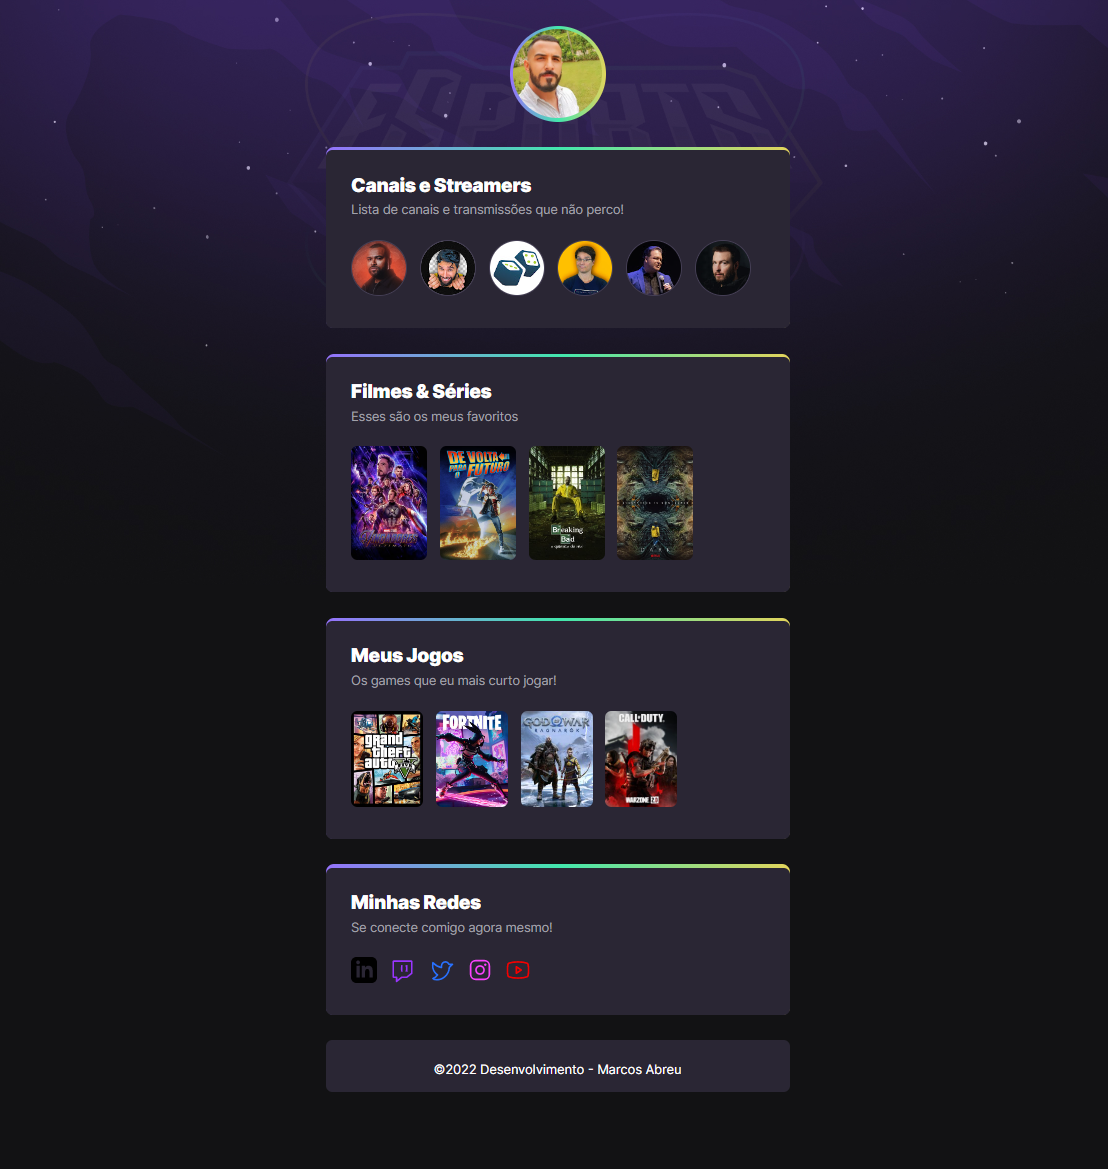
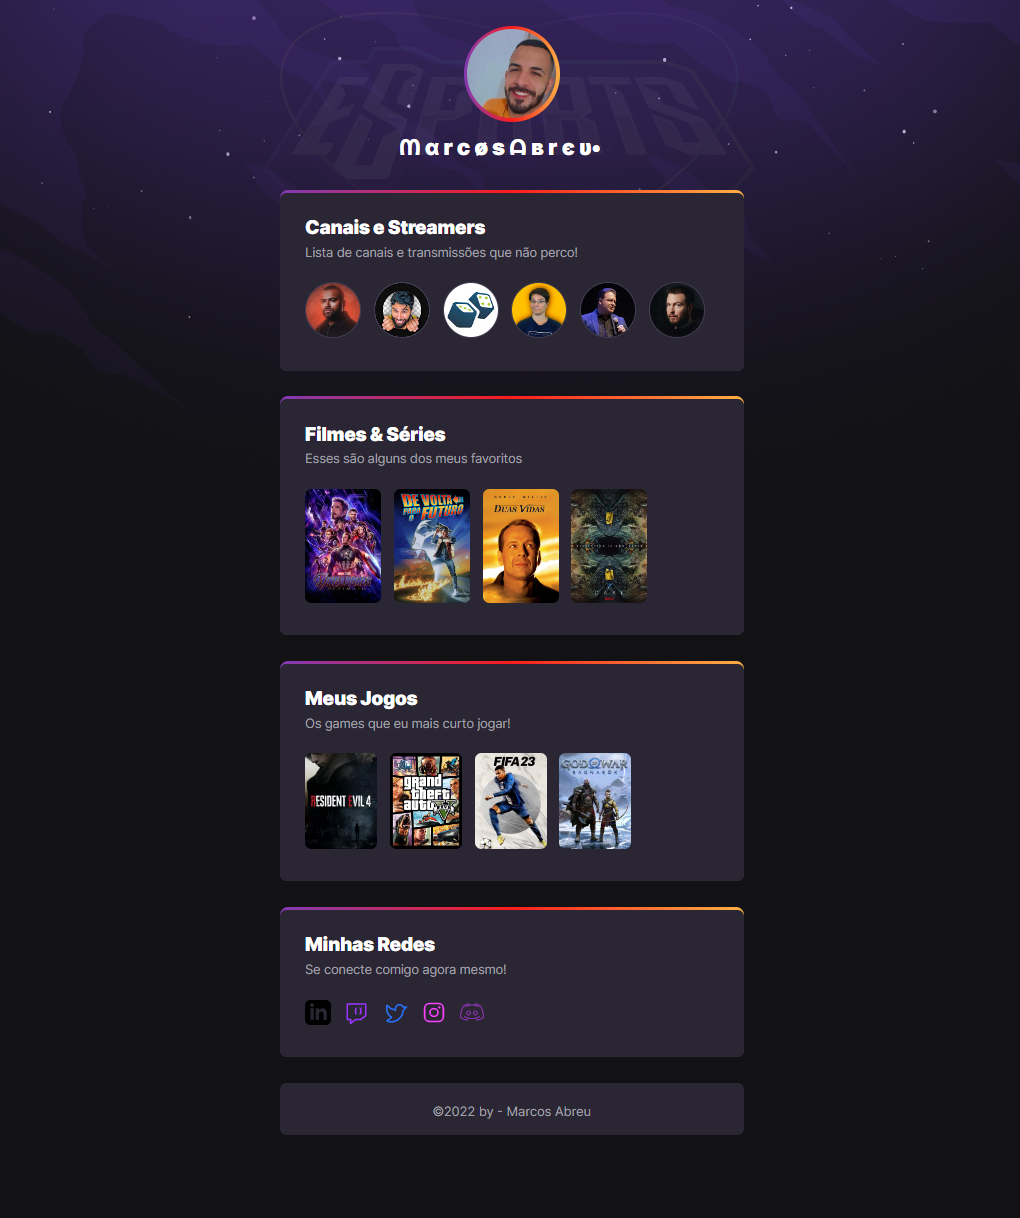
update

Changed region(s): [[0.2735, 0.308, 0.7294, 0.9547], [0.2735, 0.0, 0.7294, 0.2772], [0.3951, 0.8931, 0.6078, 0.9239]]

diff --git a/index.html b/index.html
@@ -8,7 +8,8 @@
         <meta name="viewport" content="width=device-width, initial-scale=1.0">
         <title>NLW Esports</title>
         <link rel="icon" type="image/svg" href="assets/iconmonstr-rocket-20.svg"/>
-        <link rel="stylesheet" href="./style.css">
+        <link rel="stylesheet" href="./src/css/style.css">
+        <link rel="stylesheet" href="./src/css/reset.css">
         
     </head>
     <body>
@@ -17,6 +18,12 @@
                 <img src="https://github.com/omarcossabreu.png" alt="Foto de Marcos Abreu">
             </div>
         </header>
+
+        <div>
+            <h2 class="name">
+                ᗰ α r c ø s ᗩ в r є υ•
+            </h2>
+        </div>
 
         <main>
             <section>
@@ -67,7 +74,7 @@
             <section>
                 <div class="movie-list">
                     <h2>Filmes & Séries</h2>
-                    <p>Esses são os meus favoritos</p>
+                    <p>Esses são alguns dos meus favoritos</p>
     
                     <ul>
                         <li>
@@ -77,7 +84,7 @@
                             <img src="https://www.themoviedb.org/t/p/w300_and_h450_bestv2/i996T0lI1fGtFEowiH3V6eZthL0.jpg" alt="Filme De Volta para o Futuro" />
                         </li>
                         <li>
-                            <img src="https://www.themoviedb.org/t/p/w300_and_h450_bestv2/30erzlzIOtOK3k3T3BAl1GiVMP1.jpg" alt="Série Breaking Bad" />
+                            <img src="https://encrypted-tbn3.gstatic.com/images?q=tbn:ANd9GcSDEgI3tiGxI7Z-vXjz5BUUPFk9cuSfFOPt2fNZprTPsjkTG_sF" alt="Série Breaking Bad" />
                         </li>
                         <li>
                             <img src="https://www.themoviedb.org/t/p/w300_and_h450_bestv2/9GxNKyvs57WWrTJWtFNvKXEVO9h.jpg" alt="Série Dark" />
@@ -93,24 +100,24 @@
                 
                     <ul class="games-list">
                         <li>
+                            <a target="_blank" href="https://www.twitch.tv/directory/game/Resident%20Evil%204">
+                                <img src="https://static-cdn.jtvnw.net/ttv-boxart/322503446_IGDB-144x192.jpg" alt="Imagem do Jogo Resident Evil 4">
+                            </a>
+                        </li>
+                        <li>
                             <a target="_blank" href="https://www.twitch.tv/directory/game/Grand%20Theft%20Auto%20V">
                                 <img src="https://static-cdn.jtvnw.net/ttv-boxart/32982_IGDB-285x380.jpg" alt="Imagem do jogo GTA V">
                             </a>
                             
                         </li>
                         <li>
-                            <a target="_blank" href="https://www.twitch.tv/directory/game/Fortnite">
-                                <img src="https://static-cdn.jtvnw.net/ttv-boxart/33214-285x380.jpg" alt="Imagem do jogo Fortinite">
+                            <a target="_blank" href="https://www.twitch.tv/directory/game/FIFA%2023">
+                                <img src="https://static-cdn.jtvnw.net/ttv-boxart/1745202732_IGDB-144x192.jpg" alt="Imagem do jogo Fifa 23">
                             </a>
                         </li>
                         <li>
                             <a target="_blank" href="https://www.twitch.tv/directory/game/God%20of%20War">
                                 <img src="https://static-cdn.jtvnw.net/ttv-boxart/102007682_IGDB-144x192.jpg" alt="Imagem do Jogo God of War: Ragnarok">
-                            </a>
-                        </li>
-                        <li>
-                            <a target="_blank" href="https://www.twitch.tv/directory/game/Call%20of%20Duty%3A%20Warzone">
-                                <img src="https://static-cdn.jtvnw.net/ttv-boxart/512710-188x250.jpg" alt="Imagem do Jogo Call of Duty">
                             </a>
                         </li>
                     </ul>
@@ -160,11 +167,21 @@
                             </li>
 
                             <li>
-                                <a target="_blank" href="https://www.youtube.com/channel/UCb9Dw-EBgb9OvR-ZFGbh5tg">
-                                    <svg width="32" height="32" viewBox="0 0 32 32" fill="none" xmlns="http://www.w3.org/2000/svg">
-                                        <path d="M20 16L14 12V20L20 16Z" stroke="#F40000" stroke-width="2" stroke-linecap="round" stroke-linejoin="round"/>
-                                        <path d="M3 16C3 19.725 3.3875 21.9 3.675 23.025C3.75427 23.3302 3.90418 23.6126 4.11262 23.8493C4.32106 24.0859 4.58221 24.2703 4.875 24.3875C9.0625 25.9875 16 25.95 16 25.95C16 25.95 22.9375 25.9875 27.125 24.3875C27.4178 24.2703 27.6789 24.0859 27.8874 23.8493C28.0958 23.6126 28.2457 23.3302 28.325 23.025C28.6125 21.9 29 19.725 29 16C29 12.275 28.6125 10.1 28.325 8.975C28.2457 8.66975 28.0958 8.38741 27.8874 8.15074C27.6789 7.91407 27.4178 7.7297 27.125 7.6125C22.9375 6.0125 16 6.05 16 6.05C16 6.05 9.0625 6.0125 4.875 7.6125C4.58221 7.7297 4.32106 7.91407 4.11262 8.15074C3.90418 8.38741 3.75427 8.66975 3.675 8.975C3.3875 10.1 3 12.275 3 16Z" stroke="#F40000" stroke-width="2" stroke-linecap="round" stroke-linejoin="round"/>
-                                    </svg>    
+                                <a target="_blank" href="https://discord.com/channels/@me">
+                                    <svg xmlns="http://www.w3.org/2000/svg" x="0px" y="0px" width="32" height="32"
+                                        viewBox="0,0,256,256" style="fill:#000000;">
+                                        <g fill-opacity="0.92941" fill="#9c34c2" fill-rule="nonzero" stroke="none"
+                                            stroke-width="1" stroke-linecap="butt" stroke-linejoin="miter"
+                                            stroke-miterlimit="10" stroke-dasharray="" stroke-dashoffset="0" font-family="none"
+                                            font-weight="none" font-size="none" text-anchor="none"
+                                            style="mix-blend-mode: normal">
+                                            <g transform="scale(5.12,5.12)">
+                                                <path
+                                                    d="M18.90625,7c0,0 -6.36719,0.4375 -10.53125,3.78125c-0.01953,0.00781 -0.04297,0.01953 -0.0625,0.03125c-0.72266,0.66797 -1.26562,1.70313 -1.9375,3.1875c-0.67187,1.48438 -1.38281,3.39453 -2.03125,5.53125c-1.29297,4.27734 -2.34375,9.52734 -2.34375,14.46875c-0.00391,0.17578 0.03906,0.34766 0.125,0.5c1.46094,2.56641 4.14844,4.11719 6.65625,5.09375c2.50781,0.97656 4.82422,1.36719 6,1.40625c0.33203,0.01172 0.64844,-0.14062 0.84375,-0.40625l2.4375,-3.375c1.96484,0.46484 4.26953,0.78125 6.9375,0.78125c2.66797,0 4.97266,-0.31641 6.9375,-0.78125l2.4375,3.375c0.19531,0.26563 0.51172,0.41797 0.84375,0.40625c1.17578,-0.03906 3.49219,-0.42969 6,-1.40625c2.50781,-0.97656 5.19531,-2.52734 6.65625,-5.09375c0.08594,-0.15234 0.12891,-0.32422 0.125,-0.5c0,-4.94141 -1.05078,-10.19141 -2.34375,-14.46875c-0.64844,-2.13672 -1.35937,-4.04687 -2.03125,-5.53125c-0.67187,-1.48437 -1.21484,-2.51953 -1.9375,-3.1875c-0.01953,-0.01172 -0.04297,-0.02344 -0.0625,-0.03125c-4.16406,-3.34375 -10.53125,-3.78125 -10.53125,-3.78125c-0.07422,-0.00781 -0.14453,-0.00781 -0.21875,0c-0.34766,0.04688 -0.64062,0.27344 -0.78125,0.59375c0,0 -0.33984,0.74609 -0.5625,1.8125c-1.94922,-0.3125 -3.58984,-0.40625 -4.53125,-0.40625c-0.94141,0 -2.58203,0.09375 -4.53125,0.40625c-0.22266,-1.06641 -0.5625,-1.8125 -0.5625,-1.8125c-0.17187,-0.39062 -0.57422,-0.62891 -1,-0.59375zM18.28125,9.15625c0.07422,0.20313 0.125,0.39453 0.1875,0.625c-2.25391,0.52344 -4.72266,1.37891 -7.03125,2.8125c-0.36328,0.15234 -0.60156,0.50391 -0.61328,0.89844c-0.00781,0.39063 0.21484,0.75391 0.56641,0.92578c0.35547,0.16797 0.77734,0.11719 1.07813,-0.13672c4.63281,-2.87109 10.52734,-3.28125 12.53125,-3.28125c2.00391,0 7.89844,0.41016 12.53125,3.28125c0.30078,0.25391 0.72266,0.30469 1.07813,0.13672c0.35156,-0.17187 0.57422,-0.53516 0.56641,-0.92578c-0.01172,-0.39453 -0.25,-0.74609 -0.61328,-0.89844c-2.30859,-1.43359 -4.77734,-2.28906 -7.03125,-2.8125c0.0625,-0.23047 0.11328,-0.42187 0.1875,-0.625c1.14063,0.14063 5.57422,0.73828 8.59375,3.125c0.19531,0.17969 0.875,1.17969 1.5,2.5625c0.625,1.38281 1.28125,3.18359 1.90625,5.25c1.21875,4.03125 2.20313,9.00391 2.25,13.5625c-1.13672,1.83984 -3.26953,3.20703 -5.46875,4.0625c-2,0.77734 -3.86719,1.125 -4.84375,1.21875l-1.6875,-2.28125c0.85938,-0.27734 1.63281,-0.57812 2.3125,-0.875c2.52344,-1.10937 3.875,-2.28125 3.875,-2.28125c0.41406,-0.37109 0.44922,-1.00781 0.07813,-1.42187c-0.37109,-0.41406 -1.00781,-0.44922 -1.42187,-0.07812c0,0 -1.04687,0.95703 -3.34375,1.96875c-0.84375,0.37109 -1.86719,0.73828 -3.03125,1.0625c-0.26953,-0.03125 -0.53906,0.04688 -0.75,0.21875c-1.86328,0.45313 -4.07812,0.75 -6.6875,0.75c-2.62891,0 -4.84766,-0.32422 -6.71875,-0.78125c-0.21094,-0.14062 -0.46875,-0.19922 -0.71875,-0.15625c-1.16797,-0.32422 -2.18359,-0.72266 -3.03125,-1.09375c-2.29687,-1.01172 -3.34375,-1.96875 -3.34375,-1.96875c-0.22656,-0.21094 -0.53906,-0.30078 -0.84375,-0.25c-0.38672,0.05859 -0.70703,0.33594 -0.8125,0.71484c-0.10937,0.375 0.01563,0.78125 0.3125,1.03516c0,0 1.35156,1.17188 3.875,2.28125c0.67969,0.29688 1.45313,0.59766 2.3125,0.875l-1.6875,2.28125c-0.97656,-0.09375 -2.84375,-0.44141 -4.84375,-1.21875c-2.19922,-0.85547 -4.33203,-2.22266 -5.46875,-4.0625c0.04688,-4.55859 1.03125,-9.53125 2.25,-13.5625c0.625,-2.06641 1.28125,-3.86719 1.90625,-5.25c0.625,-1.38281 1.30469,-2.38281 1.5,-2.5625c3.01953,-2.38672 7.45313,-2.98437 8.59375,-3.125zM18.5,21c-2.55078,0 -4.5,2.31641 -4.5,5c0,2.68359 1.94922,5 4.5,5c2.55078,0 4.5,-2.31641 4.5,-5c0,-2.68359 -1.94922,-5 -4.5,-5zM31.5,21c-2.55078,0 -4.5,2.31641 -4.5,5c0,2.68359 1.94922,5 4.5,5c2.55078,0 4.5,-2.31641 4.5,-5c0,-2.68359 -1.94922,-5 -4.5,-5zM18.5,23c1.31641,0 2.5,1.26563 2.5,3c0,1.73438 -1.18359,3 -2.5,3c-1.31641,0 -2.5,-1.26562 -2.5,-3c0,-1.73437 1.18359,-3 2.5,-3zM31.5,23c1.31641,0 2.5,1.26563 2.5,3c0,1.73438 -1.18359,3 -2.5,3c-1.31641,0 -2.5,-1.26562 -2.5,-3c0,-1.73437 1.18359,-3 2.5,-3z">
+                                                </path>
+                                            </g>
+                                        </g>
+                                    </svg>
                                 </a>
                             </li>
                     </ul>
@@ -174,7 +191,7 @@
 
         <footer>
             <div class="final">
-                <span>&copy;2022 Desenvolvimento - Marcos Abreu</span>
+                <span>&copy;2022 by - Marcos Abreu</span>
             </div>
 
         </footer>

diff --git a/src/css/style.css b/src/css/style.css
@@ -1,20 +1,10 @@
-*{
-    margin: 0;
-    padding: 0;
-    box-sizing: border-box;
-}
-
-ul{
-    list-style: none;
-}
-
 body * {
     font-family: 'Inter', sans-serif;
     line-height: 160%;
 }
 
 body{
-    background-image: url(./assets/Fundo.jpg);
+    background-image: url(https://i.ibb.co/wJBqgVR/Fundo.jpg);
     background-position: top center;
     background-size: 100% auto; 
     background-repeat: no-repeat;
@@ -30,7 +20,7 @@ header {
 header div {
     width: 120px;
     margin: auto;
-    background-image: linear-gradient(90deg, #9572FC 0%, #43E7AD 50.52%, #E2D45C 100%);
+    background: linear-gradient(90deg, rgba(131,58,180,1) 0%, rgba(253,29,29,1) 50%, rgba(252,176,69,1) 100%);
     border-radius: 50%;
     display: flex;
     padding: 4px;
@@ -44,6 +34,13 @@ header div:hover{
 header div img {
     width: 100%;
     border-radius: 50%;
+}
+
+.name {
+    color: white;
+    margin-top: 10px;
+    padding: 0 42%;
+    font-size: 27px;
 }
 
 /*---------------------------------------------*/
@@ -60,7 +57,7 @@ main {
 
 section {
     color: white;
-    background: linear-gradient(90deg, #9572FC 0%, #43E7AD 50.52%, #E2D45C 100%);
+    background: linear-gradient(90deg, rgba(131,58,180,1) 0%, rgba(253,29,29,1) 50%, rgba(252,176,69,1) 100%);
     padding-top: 4px;
     border-radius: 10px;
 }
@@ -93,7 +90,7 @@ section ul li{
 }
 
 section ul li:hover{
-    transform: scale(1.3);
+    transform: scale(1.2);
 }
 
 .movie-list img {
@@ -131,7 +128,7 @@ footer{
 }
 
 span{
-    color: white;
+    color: #A1A1AA;
 }
 
 /* animation */
@@ -194,5 +191,28 @@ main section:nth-child(3) {
     to {
         opacity: 1;
         transform: translateX(0);
+    }
+}
+
+/*---------------------------------------------------------------------------------*/
+
+@media (max-width: 1280px) {
+    .name {
+        padding: 0 39%;
+        font-size: 27px;
+    }
+}
+
+@media (max-width: 768px) {
+    .name {
+        padding: 0 32%;
+        font-size: 27px;
+    }
+}
+
+@media (max-width: 425px) {
+    .name {
+        padding: 0 23%;
+        font-size: 23px;
     }
 }

diff --git a/src/css/reset.css b/src/css/reset.css
@@ -1,0 +1,9 @@
+*{
+    margin: 0;
+    padding: 0;
+    box-sizing: border-box;
+}
+
+ul{
+    list-style: none;
+}
